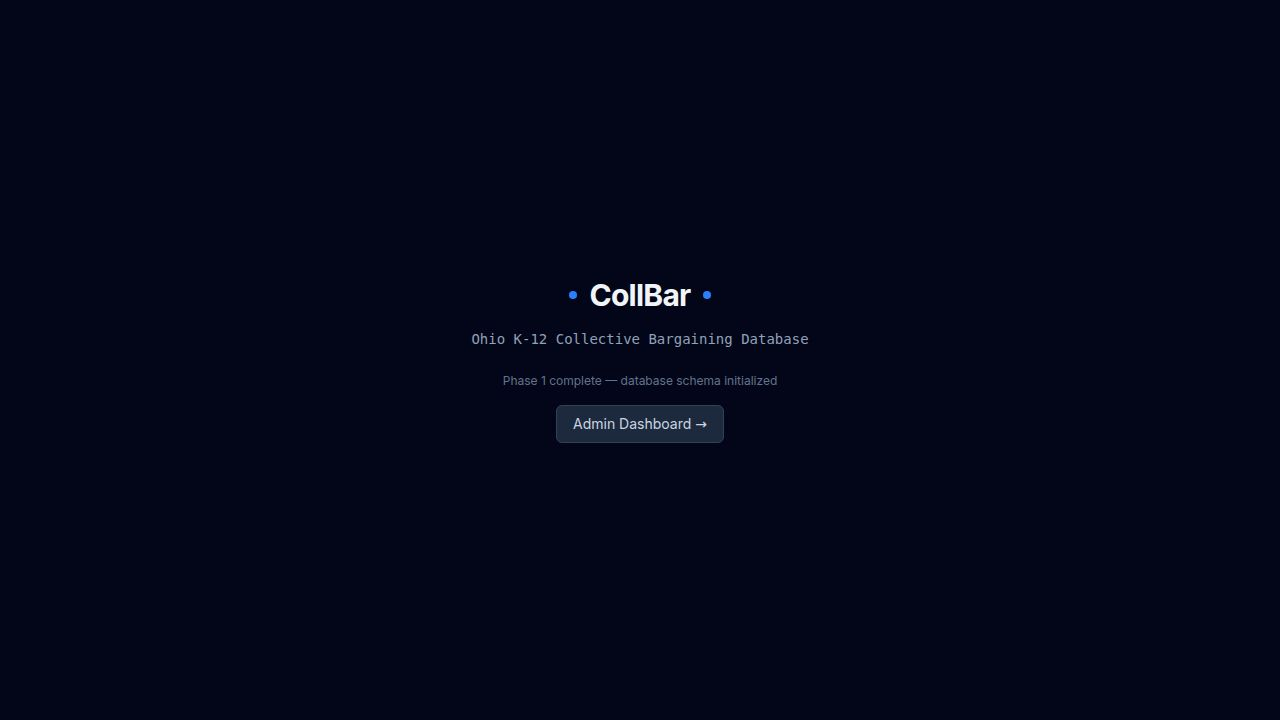
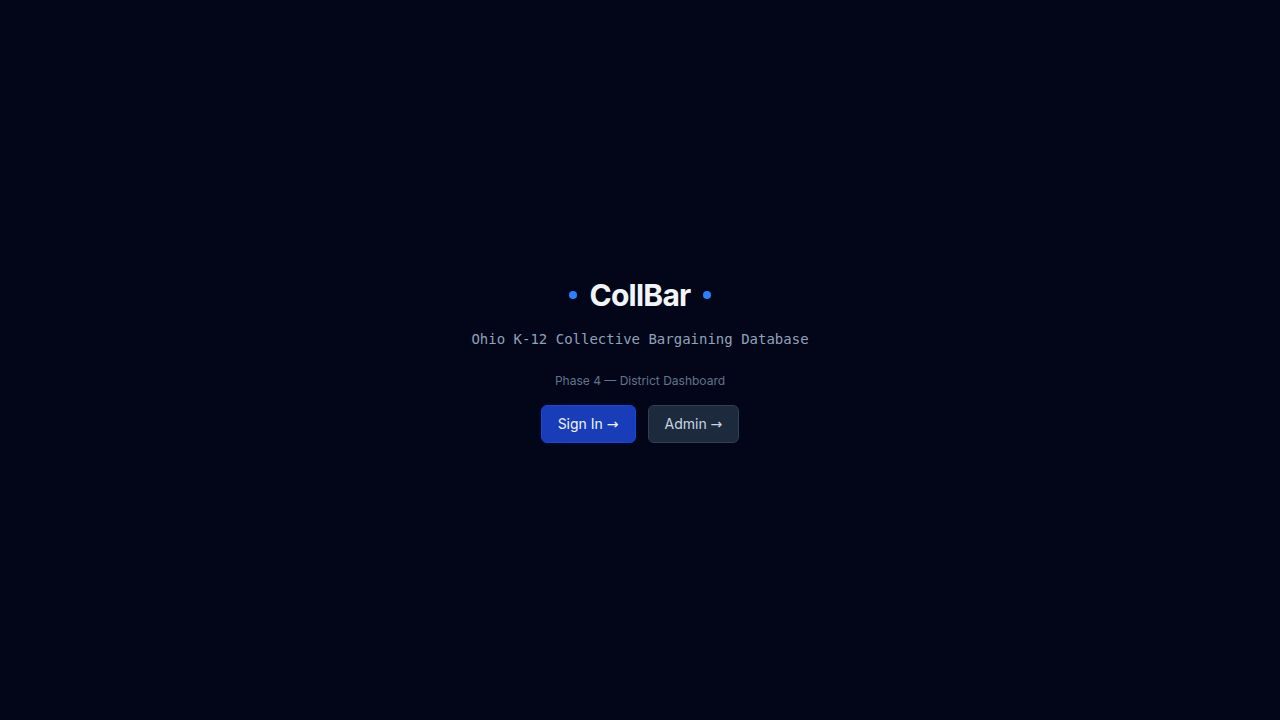
Fix runtime crash in comparison page by adjusting hook execution order
Adjusted conditional rendering logic in `comparables.tsx` to ensure all hooks are called before early return statements, resolving a Rules of Hooks violation.

Replit-Commit-Author: Agent
Replit-Commit-Session-Id: 64ac1ace-166e-4d06-901a-c38110ccbc38
Replit-Commit-Checkpoint-Type: full_checkpoint
Replit-Commit-Event-Id: 136a0464-fb50-4e03-8ac8-8c22365a9991
Replit-Commit-Screenshot-Url: https://storage.googleapis.com/screenshot-production-us-central1/8b6ed501-ec67-47db-9cab-d770af866f73/64ac1ace-166e-4d06-901a-c38110ccbc38/nOEskU5
Replit-Helium-Checkpoint-Created: true

Changed region(s): [[0.4062, 0.5194, 0.5938, 0.6417]]

diff --git a/artifacts/collbar-web/src/pages/dashboard/comparables.tsx b/artifacts/collbar-web/src/pages/dashboard/comparables.tsx
@@ -91,9 +91,6 @@ export default function ComparablesPage() {
     }
   }, [authLoading, isAuthenticated, isAdmin, districtId, id, setLocation]);
 
-  if (authLoading || !isAuthenticated) return null;
-  if (!isAdmin && districtId != null && districtId !== parseInt(id)) return null;
-
   const buildParams = (extra: Record<string, string> = {}) => {
     const p = new URLSearchParams();
     if (county) p.set("county", county);
@@ -139,6 +136,9 @@ export default function ComparablesPage() {
   });
 
   const csvUrl = `${apiUrl("/api/dashboard/comparables")}?${buildParams({ page: "1" })}&format=csv&limit=10000`;
+
+  if (authLoading || !isAuthenticated) return null;
+  if (!isAdmin && districtId != null && districtId !== parseInt(id)) return null;
 
   return (
     <div className="min-h-screen bg-slate-950 text-slate-100 font-mono">